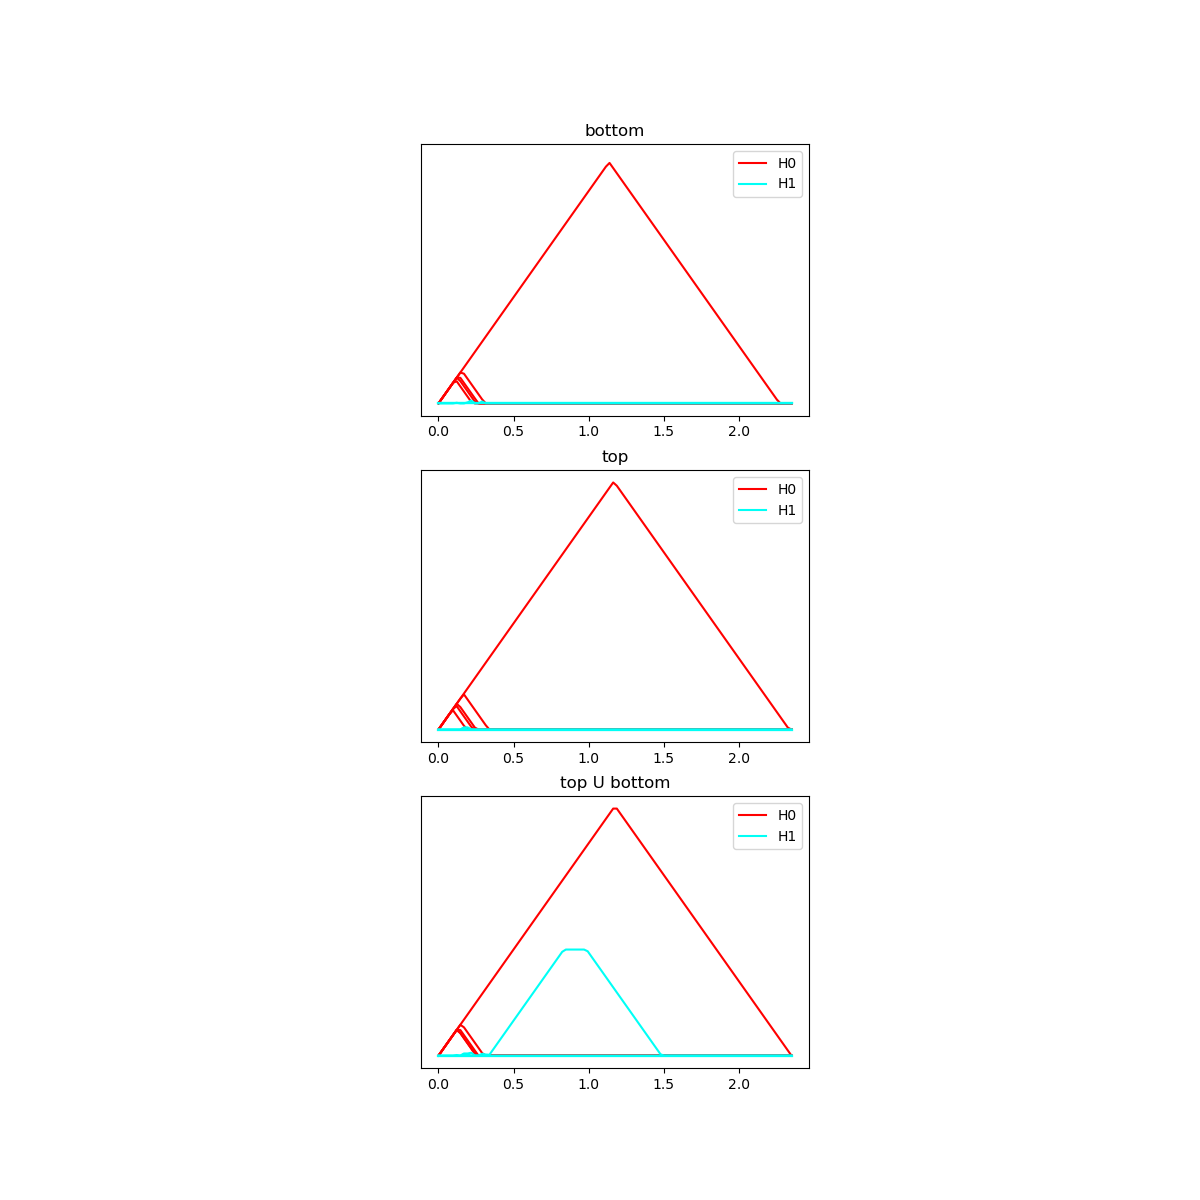
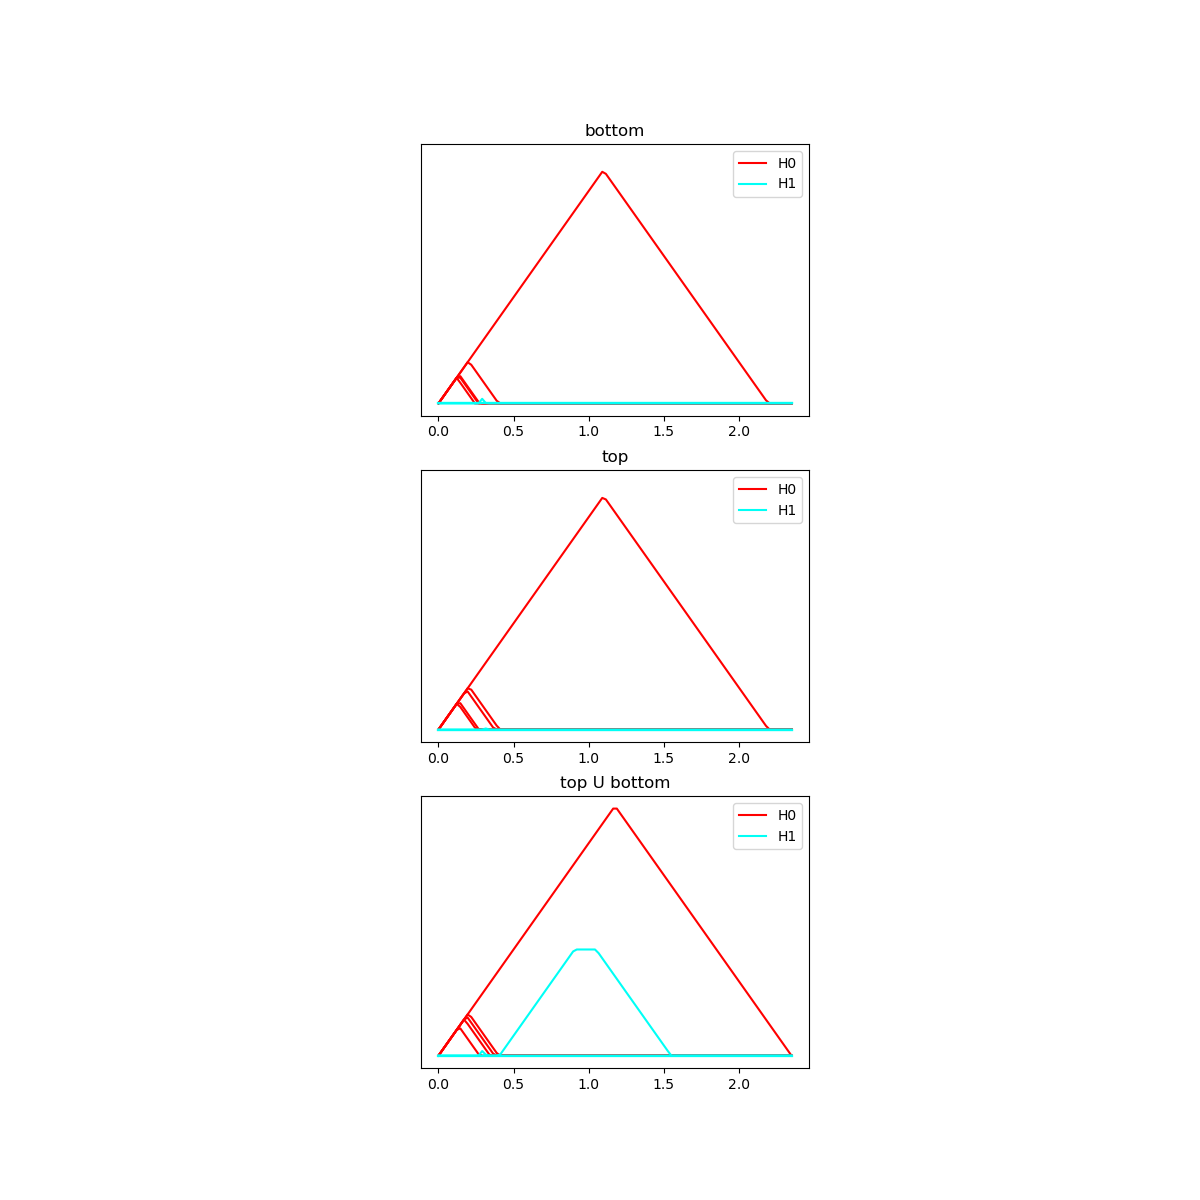
Added multiprocessing

diff --git a/src/classwise_tda/poset_landscapes.py b/src/classwise_tda/poset_landscapes.py
@@ -1,5 +1,8 @@
 """Compute generalized persistence landscapes on poset persistence modules"""
 
+import concurrent.futures
+import functools
+import time
 from operator import itemgetter
 from typing import Any, Optional, Union
 
@@ -164,6 +167,54 @@ def compute_complex_from_graph_path(
     )
 
 
+def landscape_for_one_path(
+    path: list[setup_utils.POSET_NODE_TYPE],
+    poset_graph: nx.DiGraph,
+    inclusion_graph: nx.DiGraph,
+    homology_coeff_field: int,
+    max_dim: int,
+    landscape_resolution: int,
+    num_landscapes: int,
+) -> dict[str, Any]:
+    """Helper function to compute the landscape for a given path"""
+    # Create the path complex; the paths are computed from sink to source, so we reverse
+    path_complex, list_of_steps, list_of_step_weights = compute_complex_from_graph_path(
+        path[::-1], poset_graph, inclusion_graph
+    )
+    max_filtration_value = list(path_complex.get_filtration())[-1][-1]
+    path_complex.compute_persistence(homology_coeff_field=homology_coeff_field)
+    path_diagrams = [
+        path_complex.persistence_intervals_in_dimension(i) for i in range(max_dim + 1)
+    ]
+    # Fix persistence for elements created right after a step
+    for diagram in path_diagrams:
+        for step_num in range(len(list_of_steps)):
+            adjusted_end_step_filt_value = sum(
+                list_of_steps[: step_num + 1] + list_of_step_weights[: step_num + 1]
+            )
+            indices_to_be_corrected = np.nonzero(
+                np.isclose(diagram[:, 0], adjusted_end_step_filt_value)
+            )
+            np.subtract.at(
+                diagram[:, 0],
+                indices_to_be_corrected,
+                list_of_step_weights[step_num],
+            )
+    # Truncate infinite value at max filtration value
+    path_diagrams[0][-1, 1] = max_filtration_value
+    lscape = greps.Landscape(
+        num_landscapes=num_landscapes,
+        resolution=landscape_resolution,
+        keep_endpoints=True,
+    )
+    lscape.fit(path_diagrams)
+    landscapes = lscape.transform(path_diagrams)
+    landscapes = landscapes.reshape(
+        (max_dim + 1, num_landscapes, landscape_resolution), order="C"
+    )
+    return {"landscapes": landscapes, "grid": lscape.grid_}  # type: ignore
+
+
 def landscapes_for_all_paths(
     poset_graph: nx.DiGraph,
     inclusion_graph: nx.DiGraph,
@@ -171,6 +222,7 @@ def landscapes_for_all_paths(
     max_dim: int = -1,
     num_landscapes: int = 5,
     landscape_resolution: int = 100,
+    multiprocessing_workers: Optional[int] = None,
 ) -> dict[tuple[setup_utils.POSET_NODE_TYPE, ...], dict[str, Any]]:
     """Find all paths through poset graph and compute their one-dimensional landscapes
 
@@ -204,6 +256,11 @@ def landscapes_for_all_paths(
     landscape_resolution : int
     How many samples to take across the filtration value range, affecting how finely the
     landscape is discretized. Default is 100.
+
+    multiprocessing_workers : int or None
+    How many multiprocessing workers to use. If set to None, will use as many cores as
+    are available, and if set to 0 or a negative number, will not use multiprocessing at
+    all.
 
     Returns
     ---
@@ -249,47 +306,33 @@ def landscapes_for_all_paths(
     )
 
     # Compute simplicial complexes and landscapes for all paths
-    landscape_path_dict = dict()
-    for path in tqdm(path_set):
-        path_complex, list_of_steps, list_of_step_weights = (
-            compute_complex_from_graph_path(path[::-1], poset_graph, inclusion_graph)
-        )
-        max_filtration_value = list(path_complex.get_filtration())[-1][-1]
-        path_complex.compute_persistence(homology_coeff_field=homology_coeff_field)
-        path_diagrams = [
-            path_complex.persistence_intervals_in_dimension(i)
-            for i in range(max_dim + 1)
-        ]
-        # Fix persistence for elements created right after a step
-        for diagram in path_diagrams:
-            for step_num in range(len(list_of_steps)):
-                adjusted_end_step_filt_value = sum(
-                    list_of_steps[: step_num + 1] + list_of_step_weights[: step_num + 1]
-                )
-                indices_to_be_corrected = np.nonzero(
-                    np.isclose(diagram[:, 0], adjusted_end_step_filt_value)
-                )
-                np.subtract.at(
-                    diagram[:, 0],
-                    indices_to_be_corrected,
-                    list_of_step_weights[step_num],
-                )
-        # Truncate infinite value at max filtration value
-        path_diagrams[0][-1, 1] = max_filtration_value
-        lscape = greps.Landscape(
-            num_landscapes=num_landscapes,
-            resolution=landscape_resolution,
-            keep_endpoints=True,
-        )
-        lscape.fit(path_diagrams)
-        landscapes = lscape.transform(path_diagrams)
-        landscapes = landscapes.reshape(
-            (max_dim + 1, num_landscapes, landscape_resolution), order="C"
-        )
-        landscape_path_dict[tuple(path[::-1])] = {
-            "landscapes": landscapes,
-            "grid": lscape.grid_,  # type: ignore
+    path_landscape_partial_function = functools.partial(
+        landscape_for_one_path,
+        poset_graph=poset_graph,
+        inclusion_graph=inclusion_graph,
+        homology_coeff_field=homology_coeff_field,
+        max_dim=max_dim,
+        landscape_resolution=landscape_resolution,
+        num_landscapes=num_landscapes,
+    )
+    start_time = time.time()
+    if multiprocessing_workers is None or multiprocessing_workers > 0:
+        with concurrent.futures.ProcessPoolExecutor(
+            max_workers=multiprocessing_workers
+        ) as exec:
+            landscape_path_dict = {
+                tuple(path[::-1]): exec.submit(path_landscape_partial_function, path)
+                for path in path_set
+            }
+            landscape_path_dict = {
+                key: value.result() for (key, value) in landscape_path_dict.items()
+            }
+    else:
+        landscape_path_dict = {
+            tuple(path[::-1]): path_landscape_partial_function(path)
+            for path in path_set
         }
+    print(f"Computing path landscapes took {time.time() - start_time:.3f} seconds.")
     return landscape_path_dict
 
 
@@ -397,6 +440,7 @@ def compute_classwise_landscape_poset(
     output_landscape_resolution: int = 100,
     path_landscape_resolution: int = 100,
     return_inclusion_graph: bool = False,
+    multiprocessing_workers: Optional[int] = None,
 ) -> Union[nx.DiGraph, tuple[nx.DiGraph, nx.DiGraph]]:
     """High-level routine that creates a poset graph with landscape values at every node
 
@@ -448,6 +492,11 @@ def compute_classwise_landscape_poset(
     return_inclusion_graph : bool
     Whether to return the inclusion graph as well as the full poset graph.
 
+    multiprocessing : int or None
+    How many multiprocessing workers to use. If set to None, will use as many cores as
+    are available, and if set to 0 or a negative number, will not use multiprocessing at
+    all.
+
     Returns
     ---
     networkx.DiGraph : Weighted directed graph representing the poset persistence
@@ -481,6 +530,7 @@ def compute_classwise_landscape_poset(
         max_dim=landscape_max_dim,
         num_landscapes=num_landscapes,
         landscape_resolution=path_landscape_resolution,
+        multiprocessing_workers=multiprocessing_workers,
     )
     poset_graph = add_landscape_values_to_poset_graph(poset_graph, landscape_dict)
     if return_inclusion_graph:

diff --git a/scripts/two_half_rings_demo.py b/scripts/two_half_rings_demo.py
@@ -4,7 +4,7 @@ import xarray as xr
 
 from classwise_tda import poset_landscapes, visualization
 
-SAMPLING_RATIO = 2
+SAMPLING_RATIO = 4
 
 ds = xr.open_dataset("~/classwise_tda/data/half_rings_synth_dataset.nc")
 
@@ -31,6 +31,7 @@ poset_graph, inclusion_graph = poset_landscapes.compute_classwise_landscape_pose
     return_inclusion_graph=True,
     output_landscape_resolution=98,
     path_landscape_resolution=1000,
+    multiprocessing_workers=8,
 )
 
 landscape_array = poset_landscapes.create_poset_landscape_array(poset_graph)
